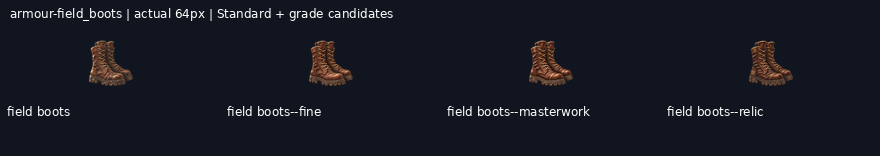
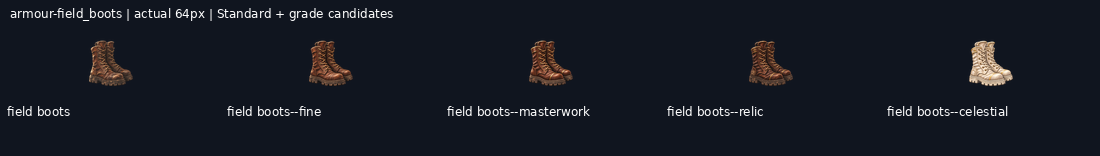
art: draw armour-field_boots--celestial grade candidate

diff --git a/art/_archive/gear/2026-11-19-kept-blade-grades/HANDOFF.md b/art/_archive/gear/2026-11-19-kept-blade-grades/HANDOFF.md
@@ -1,6 +1,6 @@
 # Gear grade candidates
 
-**108/120 grade candidates delivered** on `art/2026-11-19-kept-blade-grades`. Shared mailbox: https://github.com/leonpentastorm/Project-Heaven-Cry/issues/3 . See claim.json for this lane’s current Standards. Released overlapping blades reuse12 peer candidates, with3 local alternatives archived.
+**109/120 grade candidates delivered** on `art/2026-11-19-kept-blade-grades`. Shared mailbox: https://github.com/leonpentastorm/Project-Heaven-Cry/issues/3 . See claim.json for this lane’s current Standards. Released overlapping blades reuse12 peer candidates, with3 local alternatives archived.
 
 Leon requested continuous candidate production; proof approval is not fabricated. All candidates remain review-candidate, production_approved:false, implementation_ready:false, with outline.review_required:true. Exact outline is measured, never asserted unless the masks match. Per-image registration is uniform scaling/translation only, without warp, silhouette masks, filled pixels or code-drawn substitutes. The generated native remains untouched.
 
@@ -10,12 +10,12 @@ Tomorrow: fetch this branch and develop safely, read the latest issue 3 comments
 
 Peer audit: [coordination/peer-audit-2026-11-19.md](coordination/peer-audit-2026-11-19.md). Peer58 masters/232 exports and12 canonical imports were checked. Faint alpha<8 margin residue requires versioned technical cleanup; check its subsequent correction manifest before claiming that cleanup is complete. Peer quota resets20 November2026 at09:45:39 Bangkok time; this does not establish this session’s quota.
 
-Remaining: weapon-ork_machete--masterwork, weapon-ork_machete--relic, weapon-ork_machete--celestial, weapon-war_axe--fine, weapon-war_axe--masterwork, weapon-war_axe--relic, weapon-war_axe--celestial, armour-field_boots--celestial, armour-heavy_boots--fine, armour-heavy_boots--masterwork, armour-heavy_boots--relic, armour-heavy_boots--celestial.
+Remaining: weapon-ork_machete--masterwork, weapon-ork_machete--relic, weapon-ork_machete--celestial, weapon-war_axe--fine, weapon-war_axe--masterwork, weapon-war_axe--relic, weapon-war_axe--celestial, armour-heavy_boots--fine, armour-heavy_boots--masterwork, armour-heavy_boots--relic, armour-heavy_boots--celestial.
 
 Service-rejected requests (do not repeatedly resubmit): weapon-ork_machete--masterwork, weapon-war_axe--fine.
 
 Waiting on rejected prerequisites: weapon-ork_machete--celestial, weapon-ork_machete--relic, weapon-war_axe--celestial, weapon-war_axe--masterwork, weapon-war_axe--relic.
 
-Ready independent next steps, in queue order: armour-field_boots--celestial, armour-heavy_boots--fine. Other pending grades follow their preceding grade.
+Ready independent next steps, in queue order: armour-heavy_boots--fine. Other pending grades follow their preceding grade.
 
 Runtime handoff: implementation_ready:false records review status but does not gate the web asset builder. The builder emits grade asset keys; the current UI gear resolver still needs grade-aware selection. Do not claim that runtime grade selection is implemented by these art deliveries.
